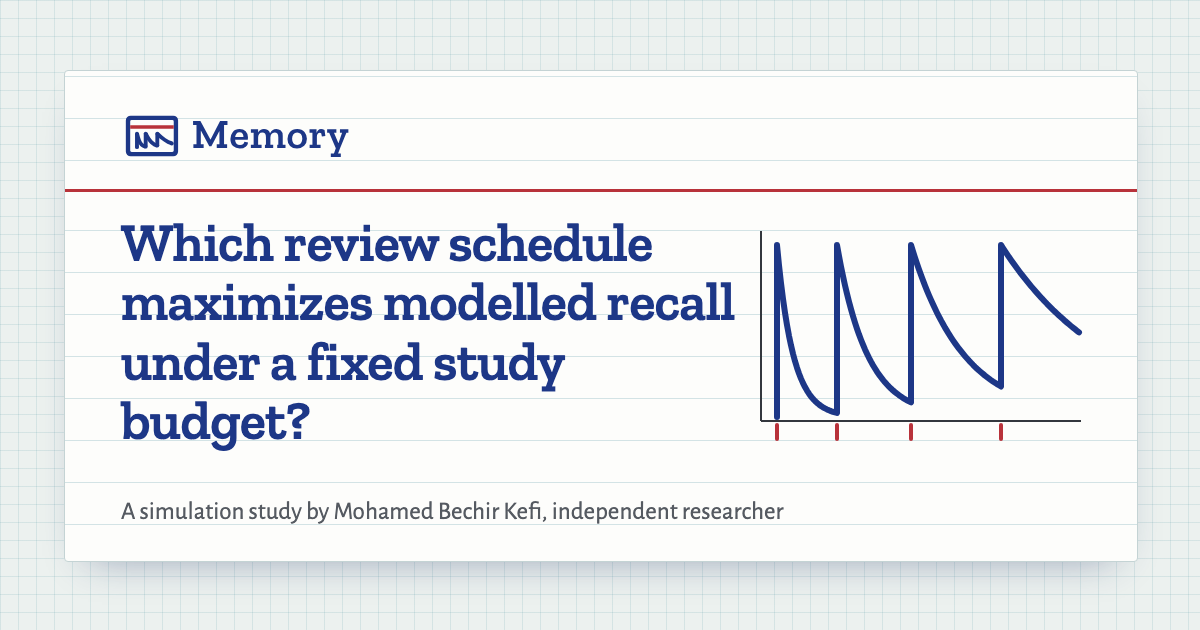
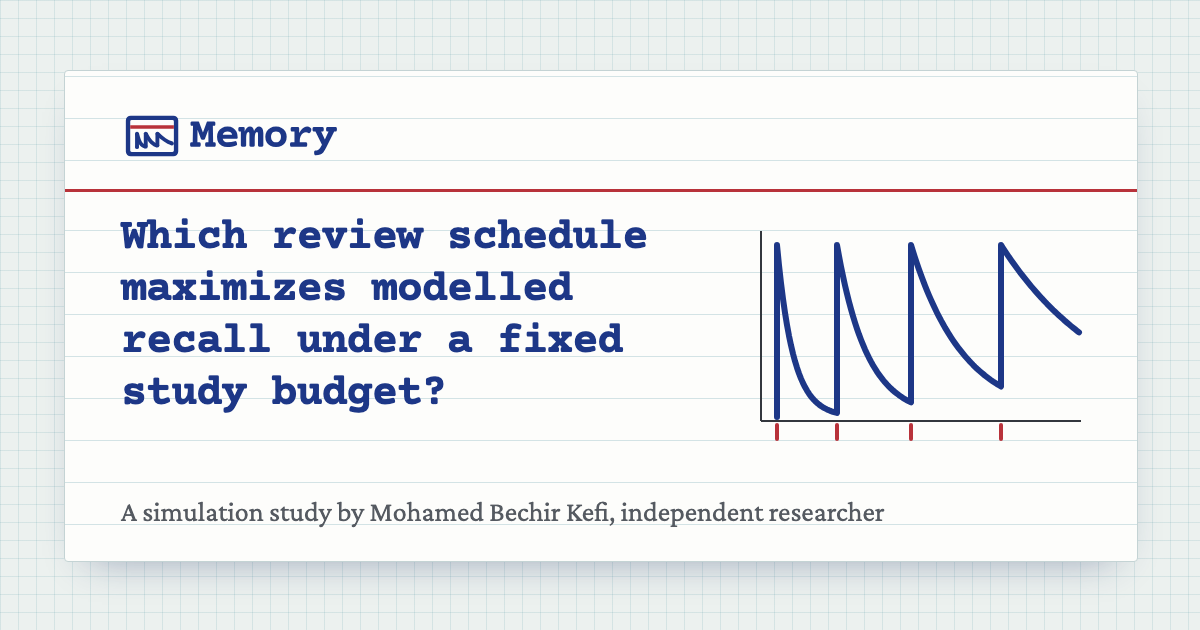
Demo: unique typeface pair across the labs (owner request 2026-11-26)

Changed region(s): [[0.0925, 0.3317, 0.6167, 0.7238], [0.0925, 0.7841, 0.74, 0.8444], [0.1542, 0.181, 0.3083, 0.2413]]

diff --git a/demo/src/style.css b/demo/src/style.css
@@ -12,8 +12,8 @@
   --arm-greedy: #1d3787; --arm-expanding: #b8323a; --arm-uniform: #4a4f57; --arm-leitner: #1e7a5a;
   --arm-massed: #a86e00; --arm-greedy-exp: #b0306a; --arm-greedy-power: #6a3fa0;
   --cal: #1d3787; --band: rgba(74, 79, 87, 0.12); --accent: #1d3787;
-  --slab: "Zilla Slab", "Rockwell", Georgia, serif;
-  --sans: "Alegreya Sans", "Gill Sans", "Trebuchet MS", sans-serif;
+  --type: "Courier Prime", "Courier New", Courier, monospace;
+  --text: "Crimson Pro", Georgia, "Times New Roman", serif;
   --ease-out: cubic-bezier(0.23, 1, 0.32, 1);
   --ease-in-out: cubic-bezier(0.77, 0, 0.175, 1);
   color-scheme: light;
@@ -23,13 +23,14 @@ html { -webkit-text-size-adjust: 100%; scroll-padding-top: 72px; }
 @media (prefers-reduced-motion: no-preference) { html { scroll-behavior: smooth; } }
 body {
   margin: 0; background: var(--paper); color: var(--graphite);
-  font: 17px/1.6 var(--sans); font-variant-numeric: lining-nums; -webkit-font-smoothing: antialiased;
+  font: 19px/1.55 var(--text); font-variant-numeric: lining-nums; -webkit-font-smoothing: antialiased;
 }
 .wrap { max-width: 72rem; margin: 0 auto; padding: 0 16px; }
 @media (min-width: 48rem) { .wrap { padding: 0 32px; } }
-h1, h2, h3 { font-family: var(--slab); color: var(--ink); font-weight: 600; line-height: 1.15; letter-spacing: -0.005em; }
-h2 { font-size: clamp(1.7rem, 3.4vw, 2.1rem); margin: 0 0 0.8rem; display: flex; flex-wrap: wrap; align-items: center; gap: 0.3rem 0.8rem; text-wrap: balance; }
-h3 { font-size: 1.3rem; margin: 1.6rem 0 0.5rem; font-weight: 500; }
+h1, h2, h3 { font-family: var(--type); color: var(--ink); font-weight: 700; line-height: 1.2; letter-spacing: -0.02em; }
+strong, b, th, dt { font-weight: 600; }
+h2 { font-size: clamp(1.45rem, 3vw, 1.85rem); margin: 0 0 0.8rem; display: flex; flex-wrap: wrap; align-items: center; gap: 0.3rem 0.8rem; text-wrap: balance; }
+h3 { font-size: 1.12rem; margin: 1.6rem 0 0.5rem; font-weight: 700; }
 p { margin: 0 0 0.9rem; }
 .prose, .lede, section > p { max-width: 42rem; }
 a { color: var(--ink); text-decoration-thickness: 1px; text-underline-offset: 3px; }
@@ -49,7 +50,7 @@ nav { min-width: 0; flex: 1; overflow-x: auto; scrollbar-width: none; }
 nav ul { list-style: none; margin: 0; padding: 0 0 0 2px; display: flex; gap: 0.1rem; }
 nav a {
   position: relative; display: inline-flex; align-items: center; min-height: 44px; padding: 0 0.7rem;
-  font-family: var(--slab); font-weight: 500; font-size: 1rem; color: var(--ink); text-decoration: none; white-space: nowrap;
+  font-family: var(--type); font-weight: 400; font-size: 0.92rem; color: var(--ink); text-decoration: none; white-space: nowrap;
 }
 nav a::after {
   content: ""; position: absolute; left: 0.7rem; right: 0.7rem; bottom: 8px; height: 2px; background: var(--red);
@@ -62,7 +63,7 @@ nav a:focus-visible::after { transform: scaleX(1); }
 .hero { padding: 2.2rem 0 2.6rem; border-bottom: 1px solid var(--line); }
 .hero-grid { display: grid; gap: 2rem; align-items: center; }
 @media (min-width: 60rem) { .hero-grid { grid-template-columns: 1fr 1.02fr; gap: 3rem; } .hero { padding: 3.6rem 0 3.8rem; } }
-.hero h1 { font-size: clamp(2.1rem, 4.6vw, 3.5rem); line-height: 1.06; margin: 0 0 1.2rem; text-wrap: balance; letter-spacing: -0.015em; }
+.hero h1 { font-size: clamp(1.65rem, 3.3vw, 2.55rem); line-height: 1.16; margin: 0 0 1.2rem; text-wrap: balance; letter-spacing: -0.015em; }
 .answer { font-size: clamp(1.18rem, 2vw, 1.4rem); line-height: 1.5; color: var(--ink-deep); max-width: 36rem; }
 .byline { color: var(--muted); max-width: 36rem; }
 .legend-key { color: var(--muted); font-size: 0.95rem; max-width: 36rem; margin: 0; line-height: 1.9; }
@@ -71,16 +72,16 @@ nav a:focus-visible::after { transform: scaleX(1); }
   background-image: linear-gradient(var(--grid) 1px, transparent 1px), linear-gradient(90deg, var(--grid) 1px, transparent 1px);
   background-size: 14px 14px; background-position: -1px -1px; }
 .hero-art svg { display: block; width: 100%; height: auto; }
-.illus-tag { position: absolute; top: 12px; right: 14px; margin: 0; font-size: 0.85rem; font-weight: 500; color: var(--red); background: var(--card); padding: 0 0.4rem; border: 1px solid var(--red); border-radius: 2px; }
+.illus-tag { position: absolute; top: 12px; right: 14px; margin: 0; font-size: 0.85rem; font-weight: 600; color: var(--red); background: var(--card); padding: 0 0.4rem; border: 1px solid var(--red); border-radius: 2px; }
 .hero-art figcaption { font-size: 0.92rem; color: var(--muted); margin-top: 0.4rem; background: var(--card); }
 .hero-art .axis { stroke: var(--graphite); stroke-width: 1.2; }
-.hero-art .art-label { font: 13px var(--sans); fill: var(--muted); color: var(--muted); }
+.hero-art .art-label { font: italic 15px var(--text); fill: var(--muted); color: var(--muted); }
 .hero-art .review-tick { stroke: var(--red); stroke-width: 2; stroke-linecap: round; }
 .hero-art .ink-curve { fill: none; stroke: var(--ink); stroke-width: 3; stroke-linejoin: round; stroke-linecap: round; }
 .hero-art .tray-back { fill: #cbd8e6; }
 .hero-art .tray-front { fill: #dbe4f0; stroke: var(--ink); stroke-width: 1.5; }
-.hero-art .box-name { font: 600 16px var(--slab); fill: var(--ink); color: var(--ink); }
-.hero-art .box-every { font: 13px var(--sans); fill: #3c4a66; color: var(--ink); }
+.hero-art .box-name { font: 700 15px var(--type); fill: var(--ink); color: var(--ink); }
+.hero-art .box-every { font: 15px var(--text); fill: #3c4a66; color: var(--ink); }
 .hero-art .card-body { fill: var(--card); stroke: #8fa3a8; stroke-width: 1; }
 .hero-art .card-red { stroke: var(--red); stroke-width: 1.6; }
 .hero-art .card-rule { stroke: var(--rule); stroke-width: 1; }
@@ -94,8 +95,8 @@ nav a:focus-visible::after { transform: scaleX(1); }
 @media (max-width: 40rem) {
   .illus-tag { position: static; display: inline-block; margin-bottom: 0.4rem; }
   .hero-art .box-every { display: none; }
-  .hero-art .box-name { font-size: 21px; }
-  .hero-art .art-label { font-size: 19px; }
+  .hero-art .box-name { font-size: 20px; }
+  .hero-art .art-label { font-size: 20px; }
   nav { -webkit-mask-image: linear-gradient(to right, #000 82%, transparent); mask-image: linear-gradient(to right, #000 82%, transparent); }
   .panel { padding: 1rem 0.9rem 0.6rem; }
 }
@@ -110,13 +111,13 @@ nav a:focus-visible::after { transform: scaleX(1); }
 
 /* Sections */
 section { padding: 3rem 0; border-bottom: 1px solid var(--line); }
-.lede { font-family: var(--slab); font-weight: 500; font-size: 1.3rem; line-height: 1.4; color: var(--ink-deep); }
+.lede { font-family: var(--text); font-weight: 600; font-size: 1.3rem; line-height: 1.4; color: var(--ink-deep); }
 .status-label, .note, .meta { color: var(--muted); }
 .note { max-width: 46rem; }
 .meta { font-size: 0.92rem; overflow-wrap: anywhere; margin-bottom: 0.3rem; }
 
 /* Labels */
-.lbl { display: inline-block; font-family: var(--sans); font-size: 0.82rem; font-weight: 700; border-radius: 2px;
+.lbl { display: inline-block; font-family: var(--text); font-size: 0.84rem; font-weight: 600; border-radius: 2px;
        padding: 0.05rem 0.5rem; vertical-align: middle; line-height: 1.55; letter-spacing: 0.01em; }
 .lbl-measured { color: var(--measured); background: var(--measured-bg); border: 1px solid var(--measured); }
 .lbl-sandbox { color: var(--sandbox); background: var(--sandbox-bg); border: 1px dashed var(--sandbox); }
@@ -129,7 +130,7 @@ section { padding: 3rem 0; border-bottom: 1px solid var(--line); }
 .icard { position: relative; }
 .icard-tab {
   position: absolute; top: -30px; height: 31px; margin: 0; padding: 0 0.9rem; display: flex; align-items: center;
-  font: 600 0.98rem var(--slab); color: var(--ink); background: var(--card); border: 1px solid var(--line);
+  font: 700 0.9rem var(--type); color: var(--ink); background: var(--card); border: 1px solid var(--line);
   border-bottom: 0; border-radius: 5px 5px 0 0;
 }
 .tab-1 .icard-tab { left: 10px; } .tab-2 .icard-tab { left: calc(50% - 3.4rem); } .tab-3 .icard-tab { right: 10px; }
@@ -141,13 +142,13 @@ section { padding: 3rem 0; border-bottom: 1px solid var(--line); }
 }
 .icard-head { height: 3rem; display: flex; align-items: center; border-bottom: 2px solid var(--red); margin: 0 -1.1rem; padding: 0 1.1rem; }
 .icard-body p { margin: 0; line-height: 1.75rem; }
-.icard .big { font: 600 2.6rem/3.5rem var(--slab); color: var(--ink); font-variant-numeric: lining-nums tabular-nums; margin: 0; }
+.icard .big { font: 700 2.3rem/3.5rem var(--type); letter-spacing: -0.03em; color: var(--ink); font-variant-numeric: lining-nums tabular-nums; margin: 0; }
 .icard .ci { color: var(--muted); font-variant-numeric: lining-nums tabular-nums; }
 
 /* Segmented controls */
 .controls { display: flex; flex-wrap: wrap; gap: 0.9rem 1.2rem; align-items: end; margin: 1rem 0; }
 .seg-field { display: flex; flex-direction: column; gap: 0.3rem; min-width: 0; max-width: 100%; }
-.seg-label { font-size: 0.92rem; font-weight: 500; color: var(--graphite); }
+.seg-label { font-size: 0.95rem; font-weight: 600; color: var(--graphite); }
 .seg { position: relative; display: grid; background: var(--well); border-radius: 6px; padding: 4px; max-width: 100%; }
 .seg-thumb {
   position: absolute; top: 4px; bottom: 4px; left: 4px; background: var(--card); border-radius: 4px;
@@ -156,10 +157,10 @@ section { padding: 3rem 0; border-bottom: 1px solid var(--line); }
 }
 .seg button {
   position: relative; z-index: 1; min-height: 44px; padding: 0 0.85rem; background: transparent; border: 0; border-radius: 4px;
-  font: 500 0.98rem var(--sans); color: var(--muted); cursor: pointer; white-space: nowrap;
+  font: 400 1rem var(--text); color: var(--muted); cursor: pointer; white-space: nowrap;
 }
-.seg button[aria-pressed="true"] { color: var(--ink); font-weight: 700; }
-@media (max-width: 26rem) { .seg button { padding: 0 0.5rem; font-size: 0.92rem; } }
+.seg button[aria-pressed="true"] { color: var(--ink); font-weight: 600; }
+@media (max-width: 26rem) { .seg button { padding: 0 0.5rem; font-size: 0.95rem; } }
 
 /* Figures: a lab sheet on graph paper */
 figure { margin: 1.4rem 0; }
@@ -173,11 +174,11 @@ svg.chart {
 }
 svg.chart.tall { max-width: 34rem; }
 svg.chart.plain { background-image: none; }
-svg.chart text { fill: currentColor; font-family: var(--sans); }
-svg.chart .tick { font-size: 13px; color: var(--muted); fill: var(--muted); font-variant-numeric: lining-nums tabular-nums; }
+svg.chart text { fill: currentColor; font-family: var(--text); }
+svg.chart .tick { font-size: 14px; color: var(--muted); fill: var(--muted); font-variant-numeric: lining-nums tabular-nums; }
 svg.chart .tick.small { font-size: 8px; }
-svg.chart .axis-label { font-size: 13px; fill: var(--muted); color: var(--muted); font-style: italic; }
-svg.chart .direct-label { font-size: 13px; font-weight: 500; fill: var(--graphite); }
+svg.chart .axis-label { font-size: 14px; fill: var(--muted); color: var(--muted); font-style: italic; }
+svg.chart .direct-label { font-size: 14px; font-weight: 600; fill: var(--graphite); }
 svg.chart .grid { stroke: var(--rule); stroke-width: 1; stroke-dasharray: 1 3; }
 svg.chart .axis { stroke: var(--graphite); stroke-width: 1.2; }
 svg.chart .zero { stroke: var(--graphite); stroke-width: 1.2; }
@@ -200,8 +201,8 @@ ul.legend li { display: flex; align-items: center; gap: 0.4rem; }
 table { border-collapse: collapse; width: 100%; font-variant-numeric: lining-nums tabular-nums; font-size: 0.96rem; }
 caption { text-align: left; color: var(--muted); font-size: 0.9rem; padding: 0.6rem 0.8rem 0.3rem; }
 th, td { text-align: left; padding: 0.45rem 0.8rem; border-bottom: 1px solid var(--rule-soft); vertical-align: top; }
-thead th { font-family: var(--slab); font-weight: 600; color: var(--ink); border-bottom: 2px solid var(--red); }
-tbody th { font-weight: 500; color: var(--graphite); }
+thead th { font-family: var(--text); font-weight: 600; font-size: 1.02rem; color: var(--ink); border-bottom: 2px solid var(--red); }
+tbody th { font-weight: 600; color: var(--graphite); }
 table.compact th, table.compact td { padding: 0.15rem 0.6rem; }
 td.num { white-space: nowrap; }
 @media (max-width: 36rem) {
@@ -224,33 +225,33 @@ td.num { white-space: nowrap; }
 dl.assumptions { margin: 0; background: var(--card); border: 1px solid var(--line); border-radius: 3px; padding: 0 1rem; }
 dl.assumptions div { display: grid; grid-template-columns: minmax(8rem, 1fr) 2fr; gap: 0.6rem; padding: 0.5rem 0; border-bottom: 1px solid var(--rule-soft); }
 dl.assumptions div:last-child { border-bottom: 0; }
-dl.assumptions dt { font-weight: 700; color: var(--graphite); } dl.assumptions dd { margin: 0; }
+dl.assumptions dt { font-weight: 600; color: var(--graphite); } dl.assumptions dd { margin: 0; }
 @media (max-width: 36rem) { dl.assumptions div { grid-template-columns: 1fr; gap: 0.1rem; } }
 ul { padding-left: 1.3rem; } li { margin-bottom: 0.35rem; }
 details { margin: 0.9rem 0; }
-summary { cursor: pointer; min-height: 44px; display: flex; align-items: center; font-weight: 500; color: var(--ink); }
+summary { cursor: pointer; min-height: 44px; display: flex; align-items: center; font-weight: 600; color: var(--ink); }
 
 /* Playground: a card tray */
 .sandbox { border: 0; margin: 3rem 0; padding: 1.6rem 1.2rem 1.4rem; background: #e2e9ec; border-radius: 6px; box-shadow: inset 0 0 0 1px var(--line), inset 0 6px 0 var(--ink); }
 @media (min-width: 48rem) { .sandbox { padding: 2rem 2rem 1.8rem; } }
 .sandbox .ink-fig, .sandbox figure { background: var(--card); border: 1px solid var(--line); border-radius: 3px; padding: 14px; }
-.controls label { display: flex; flex-direction: column; gap: 0.3rem; font-size: 0.92rem; font-weight: 500; max-width: 100%; min-width: 0; }
+.controls label { display: flex; flex-direction: column; gap: 0.3rem; font-size: 0.95rem; font-weight: 600; max-width: 100%; min-width: 0; }
 input, button, select {
   font: inherit; min-height: 44px; padding: 0.35rem 0.7rem; color: var(--graphite); background: var(--card);
   border: 1px solid #7d868c; border-radius: 4px; max-width: 100%;
 }
 input[type="number"] { width: 7rem; font-variant-numeric: lining-nums tabular-nums; }
 select { max-width: min(22rem, calc(100vw - 72px)); }
-button { cursor: pointer; font-weight: 500; color: var(--ink); border-color: var(--ink); transition: transform 140ms var(--ease-out); }
+button { cursor: pointer; font-weight: 600; color: var(--ink); border-color: var(--ink); transition: transform 140ms var(--ease-out); }
 button:active:not(:disabled) { transform: scale(0.97); }
-.btn-primary { background: var(--ink); color: var(--card); padding: 0.35rem 1.6rem; font-weight: 700; }
+.btn-primary { background: var(--ink); color: var(--card); padding: 0.35rem 1.6rem; font: 700 0.95rem var(--type); }
 button:disabled { opacity: 0.55; cursor: not-allowed; }
 .seg button:active:not(:disabled) { transform: none; }
 progress { appearance: none; -webkit-appearance: none; width: 12rem; height: 10px; border: 1px solid var(--ink); border-radius: 2px; background: var(--card); overflow: hidden; }
 progress::-webkit-progress-bar { background: var(--card); }
 progress::-webkit-progress-value { background: var(--ink); }
 progress::-moz-progress-bar { background: var(--ink); }
-.sandbox-out { font-weight: 500; min-height: 1.6rem; color: var(--graphite); max-width: 46rem; }
+.sandbox-out { font-weight: 600; min-height: 1.6rem; color: var(--graphite); max-width: 46rem; }
 @media (prefers-reduced-motion: no-preference) {
   .sandbox-results { animation: fade-in 320ms var(--ease-out) both; }
 }
@@ -263,7 +264,7 @@ footer.site p { max-width: 30rem; }
 .foot-grid { display: grid; gap: 1.6rem 2.4rem; }
 @media (min-width: 52rem) { .foot-grid { grid-template-columns: 1.1fr 0.9fr 1.2fr; } }
 .foot-grid img { display: block; height: 36px; width: auto; margin-bottom: 1rem; }
-.foot-h { font-size: 1.05rem; color: #ffffff; margin: 0.4rem 0 0.6rem; display: block; }
+.foot-h { font-size: 0.95rem; color: #ffffff; margin: 0.4rem 0 0.6rem; display: block; }
 .foot-links { list-style: none; padding: 0; margin: 0; }
 .foot-links li { margin: 0; }
 .foot-links a { display: inline-flex; align-items: center; min-height: 44px; }

diff --git a/demo/src/App.tsx b/demo/src/App.tsx
@@ -38,7 +38,7 @@ export function App() {
       <header className="bar">
         <div className="bar-in">
           <a className="brand" href="#top" aria-label="Memory, back to the top">
-            <img src="./brand/memory-lockup.svg" alt="" width="113" height="30" />
+            <img src="./brand/memory-lockup.svg" alt="" width="106" height="30" />
           </a>
           <nav aria-label="Sections">
             <ul>
@@ -92,7 +92,7 @@ export function App() {
       <footer className="site">
         <div className="wrap foot-grid">
           <div>
-            <img src="./brand/memory-lockup-light.svg" alt="Memory" width="136" height="36" />
+            <img src="./brand/memory-lockup-light.svg" alt="Memory" width="128" height="36" />
             <p>
               Mohamed Bechir Kefi, independent researcher. Independent research manuscript / preprint draft, not
               peer-reviewed.
@@ -119,7 +119,7 @@ export function App() {
               An AI system (Claude, Anthropic) was used as a research and development assistant; it is not an author.
             </p>
             <p>
-              Type: Zilla Slab (Mozilla Foundation) and Alegreya Sans (Huerta Tipográfica), both under the SIL Open
+              Type: Courier Prime (Alan Dague-Greene) and Crimson Pro (Jacques Le Bailly), both under the SIL Open
               Font License, self-hosted.
             </p>
           </div>

diff --git a/demo/src/main.tsx b/demo/src/main.tsx
@@ -1,14 +1,11 @@
 // SPDX-License-Identifier: LicenseRef-MEMORY-NC-Research-1.0
 import { StrictMode } from "react";
 import { createRoot } from "react-dom/client";
-import "@fontsource/zilla-slab/latin-500.css";
-import "@fontsource/zilla-slab/latin-600.css";
-import "@fontsource/alegreya-sans/latin-400.css";
-import "@fontsource/alegreya-sans/greek-400.css";
-import "@fontsource/alegreya-sans/latin-400-italic.css";
-import "@fontsource/alegreya-sans/latin-500.css";
-import "@fontsource/alegreya-sans/greek-500.css";
-import "@fontsource/alegreya-sans/latin-700.css";
+import "@fontsource/courier-prime/latin-400.css";
+import "@fontsource/courier-prime/latin-700.css";
+import "@fontsource/crimson-pro/latin-400.css";
+import "@fontsource/crimson-pro/latin-400-italic.css";
+import "@fontsource/crimson-pro/latin-600.css";
 import { App } from "./App";
 import "./style.css";
 

diff --git a/demo/DESIGN.md b/demo/DESIGN.md
@@ -24,10 +24,14 @@ Arm colours are inks that sit on paper: ink blue (greedy), red ink (expanding), 
 
 ## Type
 
-- **Zilla Slab** (600, 500; OFL): headings, the wordmark, card tabs. A slab with the sturdiness of a typed index-card label, without being a monospace.
-- **Alegreya Sans** (400, 500, 700, 400 italic; OFL; Latin and Greek subsets for ω, σ, α, β, Δ): body, tables, controls. A humanist sans with calligraphic roots, like a careful hand; lining tabular figures for every number.
+Revised on 2026-11-26 (owner request: no typeface shared between lab demos; Zilla Slab and Alegreya Sans belong to other demos).
 
-Scale (about 1.25): 15 px small, 17 px body, 21 px lede, 27 px h3 and card figures, 34 px h2, clamp(34 px, 5vw, 58 px) hero. Line length capped at 68 characters for prose.
+- **Courier Prime** (700 and 400; OFL): display only. Headings, the wordmark, the filing tabs and section tabs of the bar, the typed figures on the overview index cards, the box labels of the hero and the Run button. Index cards were typed on typewriters; Courier Prime is a typewriter face redrawn for the screen, so headings read as typed card labels.
+- **Crimson Pro** (400, 400 italic, 600; OFL): body, tables, chart labels, controls, status labels. An old-style book serif that reads like the printed page of a psychology paper, with tabular figures (`tnum`) for every column of numbers.
+
+Monospace check: a monospace face for small data labels is one of the generated-page tells. Courier Prime is therefore kept to display sizes and to the typed card entries; every table, chart tick, axis label and status label is set in Crimson Pro. Crimson Pro has no Greek glyphs, so ω, σ, α, β and Δ fall back to Georgia or Times New Roman, both serifs close to Crimson Pro in weight.
+
+Scale: body 19 px (Crimson Pro has a small x-height), 15 px small, h1 clamp(26 px, 3.3vw, 41 px) and h2 clamp(23 px, 3vw, 30 px) in Courier Prime 700 with -0.02em tracking (a monospace is wide, so display sizes are smaller than with the earlier slab), card figures 37 px. Prose capped at 42 rem.
 
 ## Layout concept
 
@@ -70,7 +74,7 @@ The Leitner box that sorts itself when the page opens. Everything else stays qui
 - *Cream plus terracotta*: avoided. The ground is a cool graph-paper grey-green; the only warm colour is a thin red rule, as on a real index card.
 - *Near-black with one acid accent*: not used; light paper only.
 - *All-caps tracked eyebrows*: the old kicker "MEMORY · a simulation study..." (an uppercase eyebrow joined with a middle dot) is removed. Card tabs carry experiment ids in sentence case; they are filing information, not decoration.
-- *Mono data labels*: none; figures use Alegreya Sans tabular lining numerals.
+- *Mono data labels*: none; tables and charts use Crimson Pro tabular figures; Courier Prime appears only at display sizes (see Type).
 - *01/02/03 markers*: only the Leitner box numbers 1 to 5, which are a real sequence.
 - *Identical rounded SaaS cards*: the three overview cards were first planned as plain rounded panels; revised into index cards with ruled lines, a red header rule and a filing tab, with a 2 px radius like real card stock. Result panels below are lab-sheet sections, not cards.
 - *Fade-up on every section*: none. Only charts ink in, once.

diff --git a/progress.md b/progress.md
@@ -427,3 +427,23 @@ The owner: B15 (article drafts), B16 (full-text review and sign-off of `research
 ### Next action
 
 The coordinator rebuilds and deploys `demo/dist` when the owner agrees; nothing pushed or deployed here.
+
+## 2026-11-26, session 11: unique typeface pair for the demo
+
+**Bounded task:** `labs/_shared/FONT-UNIQUE-brief.md`, MEMORY row (owner request of 2026-11-26: no typeface shared between lab demos; Zilla Slab stays with PARADOX, Alegreya Sans with EVOLVE). Demo only; no number, data, fixture, test or wording of a scientific statement changed.
+
+### Commands and actual outputs
+
+- `npm uninstall @fontsource/zilla-slab @fontsource/alegreya-sans`: `removed 2 packages`. `npm_config_before=2026-11-12 npm install --save-exact @fontsource/courier-prime@5.3.0 @fontsource/crimson-pro@5.3.0`: `added 2 packages`; both `OFL-1.1` per `npm view`; `package.json` pins `5.3.0` exactly.
+- Glyph check with fontTools: Crimson Pro (Latin subset, no Greek subset published) lacks ω, σ, α, β, Δ; they fall back to Georgia or Times New Roman (recorded in `demo/DESIGN.md` and `demo/README.md`). Crimson Pro has `tnum`; Courier Prime is monospaced. Courier Prime is kept to display sizes (headings, wordmark, tabs, card figures, box labels, Run button) so it does not read as monospace data labels; tables, chart text and status labels are Crimson Pro.
+- Wordmark and lockups redrawn from Courier Prime Bold outlines (`memory-lockup.svg`, `memory-lockup-light.svg`, `memory-wordmark.svg`); `svg_audit.py`: 0 FAIL, near-miss-angle warnings on the type only. The mark and favicons contain no text and are unchanged. `og.png` re-rendered with Chrome headless (1200x630, 75,351 bytes).
+- `npm test`: `Tests 43 passed (43)`. `npm run build`: `✓ built in 125ms`; `dist/` 675,192 bytes. `node tools/a11y_check.mjs dist`: `A11Y-CHECK PASS`. `.venv/bin/python -m pytest -q`: `256 passed in 2.85s`.
+- Screenshots: `python3 -m http.server 5222 --bind 127.0.0.1` (stopped afterwards), Chrome headless desktop 1440 px and phone 390 px; type scale re-tuned for the wide monospace display face (smaller h1 and h2, body 19 px for Crimson Pro's small x-height, nav labels 0.92 rem).
+
+### Files changed
+
+`demo/package.json`, `demo/package-lock.json`, `demo/src/{main.tsx, style.css, App.tsx}`, `demo/public/brand/{memory-lockup.svg, memory-lockup-light.svg, memory-wordmark.svg, og.png}`, `demo/DESIGN.md`, `demo/README.md`, `progress.md`.
+
+### Next action
+
+The coordinator deploys `demo/dist` when the owner agrees; nothing pushed or deployed here.

diff --git a/demo/README.md b/demo/README.md
@@ -20,12 +20,12 @@ Measured results, sandbox output and assumptions carry distinct labels and are n
 
 The page has its own brand (owner request of 2026-11-26): index cards, a Leitner box and forgetting curves plotted on graph paper, in ink blue and graphite. The plan, palette, type, layout and motion rules are in `DESIGN.md`. The hero shows an illustration of a Leitner box, labelled on the page as an illustration and not study data; it contains no result.
 
-Brand files are in `public/brand/`: the mark (`memory-mark.svg`, with one-colour and dark-background versions), the lockup and wordmark, `favicon.svg`, `favicon-32.png`, `apple-touch-icon.png` and the Open Graph image `og.png` (1200 by 630). The mark is drawn by hand as SVG paths; the wordmark outlines come from Zilla Slab, which the font licence permits.
+Brand files are in `public/brand/`: the mark (`memory-mark.svg`, with one-colour and dark-background versions), the lockup and wordmark, `favicon.svg`, `favicon-32.png`, `apple-touch-icon.png` and the Open Graph image `og.png` (1200 by 630). The mark is drawn by hand as SVG paths; the wordmark outlines come from Courier Prime Bold, which the font licence permits.
 
-Fonts, self-hosted from npm and bundled (nothing is fetched from another host):
+Fonts, self-hosted from npm and bundled (nothing is fetched from another host). Revised on 2026-11-26 so that no lab demo shares a typeface:
 
-- Zilla Slab, package `@fontsource/zilla-slab` version `5.3.0`, weights 500 and 600, Latin subset; Mozilla Foundation; licence `OFL-1.1` (SIL Open Font License).
-- Alegreya Sans, package `@fontsource/alegreya-sans` version `5.3.0`, weights 400, 500 and 700 and 400 italic, Latin and Greek subsets; Huerta Tipográfica; licence `OFL-1.1` (SIL Open Font License).
+- Courier Prime, package `@fontsource/courier-prime` version `5.3.0`, weights 400 and 700, Latin subset; Alan Dague-Greene; licence `OFL-1.1` (SIL Open Font License). Display only.
+- Crimson Pro, package `@fontsource/crimson-pro` version `5.3.0`, weights 400, 600 and 400 italic, Latin subset; Jacques Le Bailly; licence `OFL-1.1` (SIL Open Font License). Body, tables and charts. It has no Greek glyphs; Greek letters fall back to a system serif.
 
 ## Commands
 
